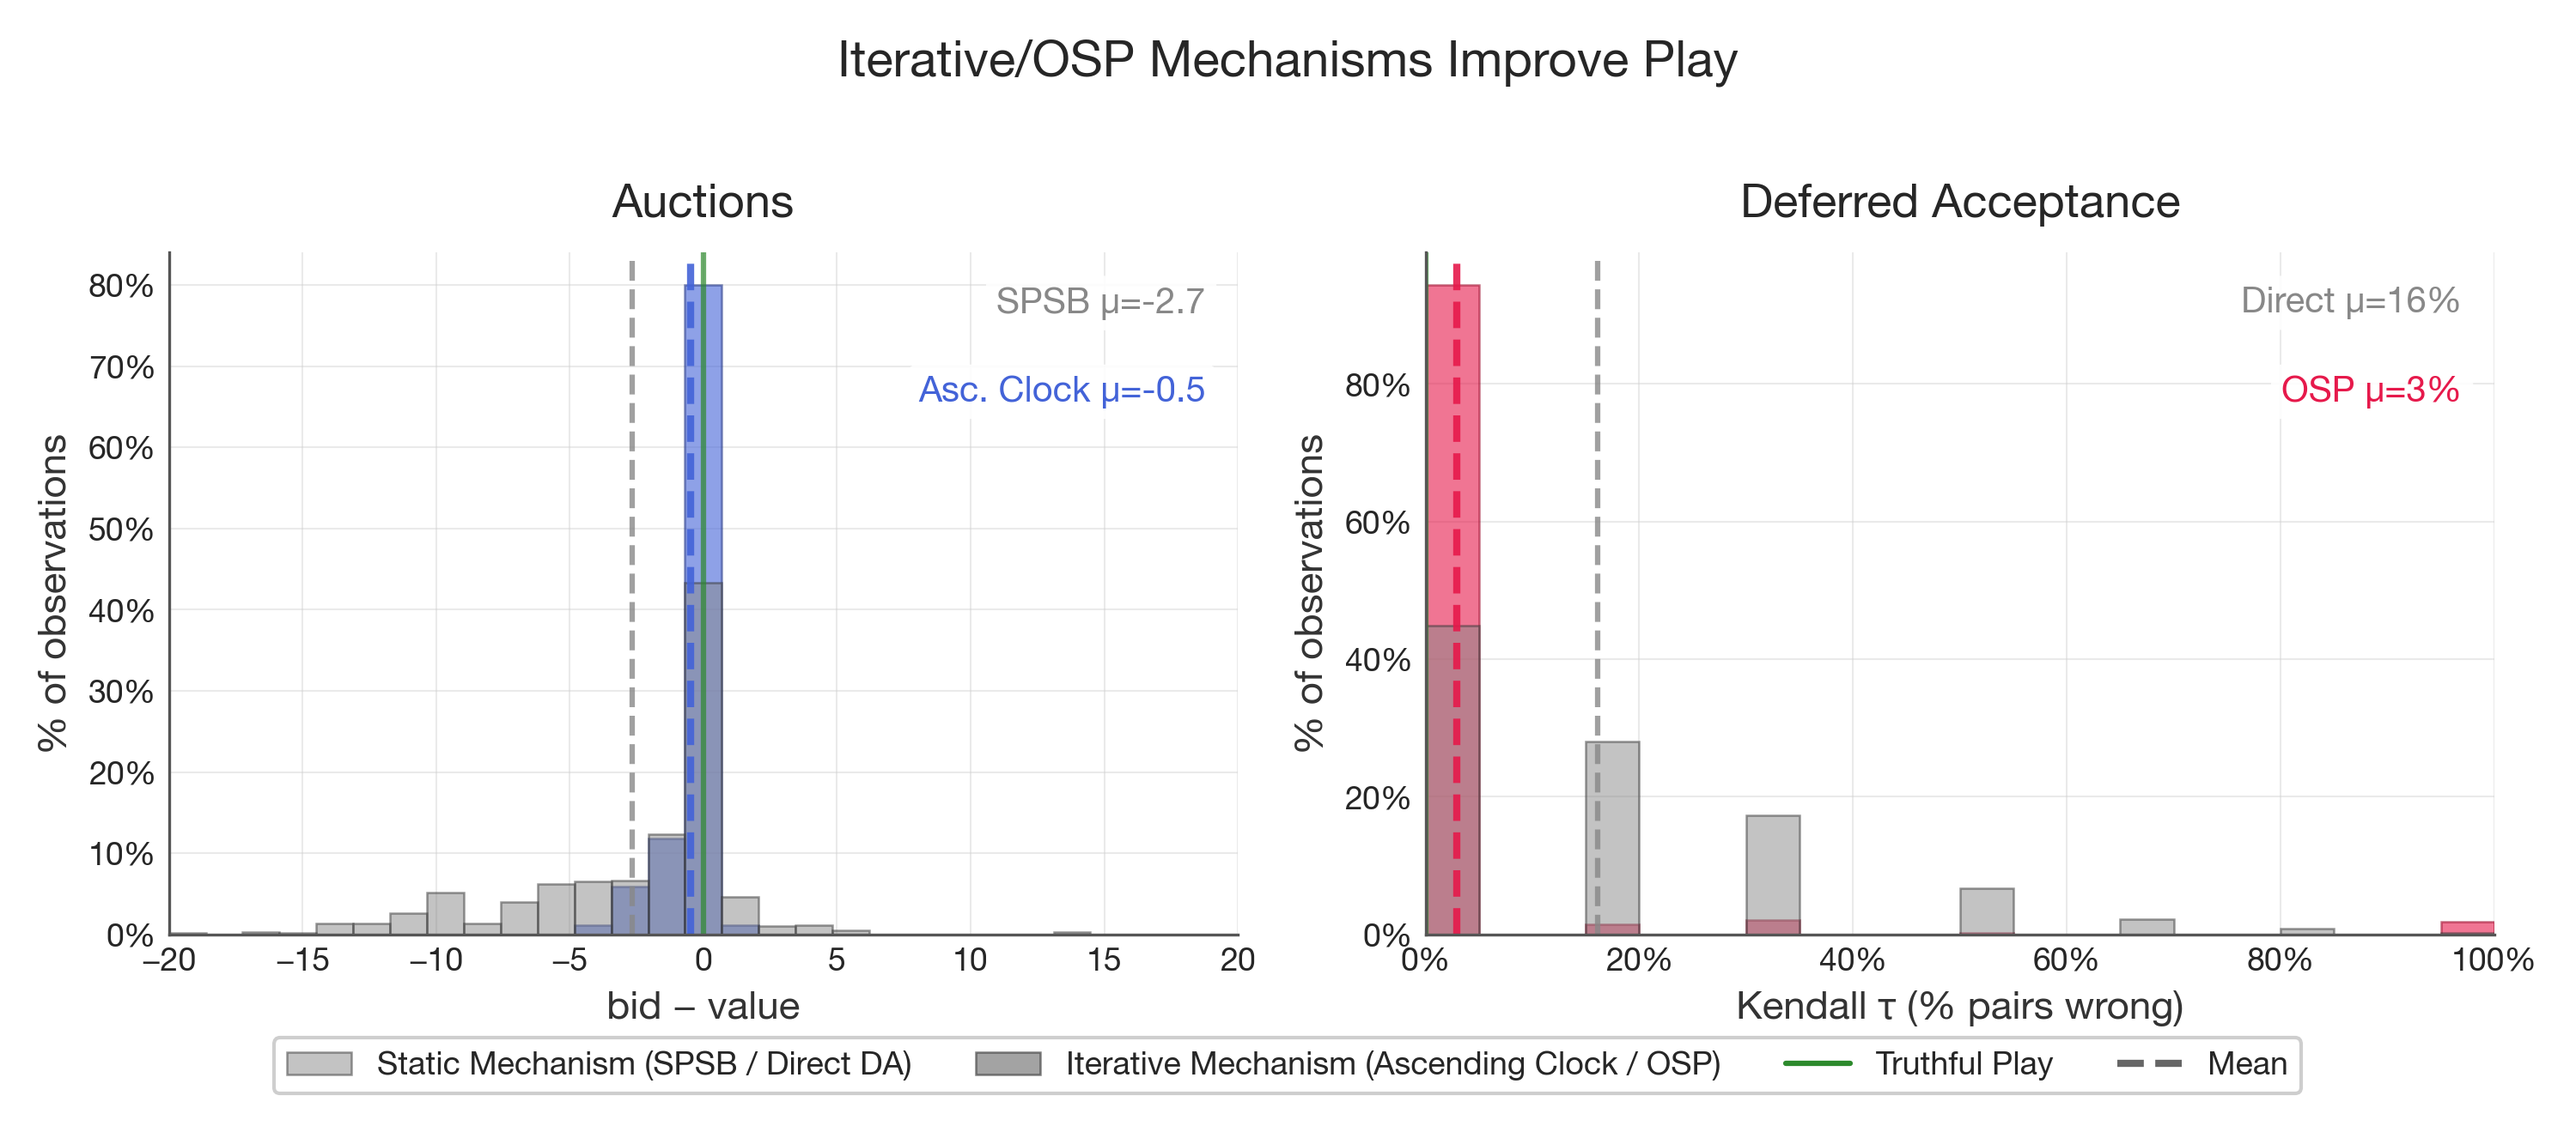
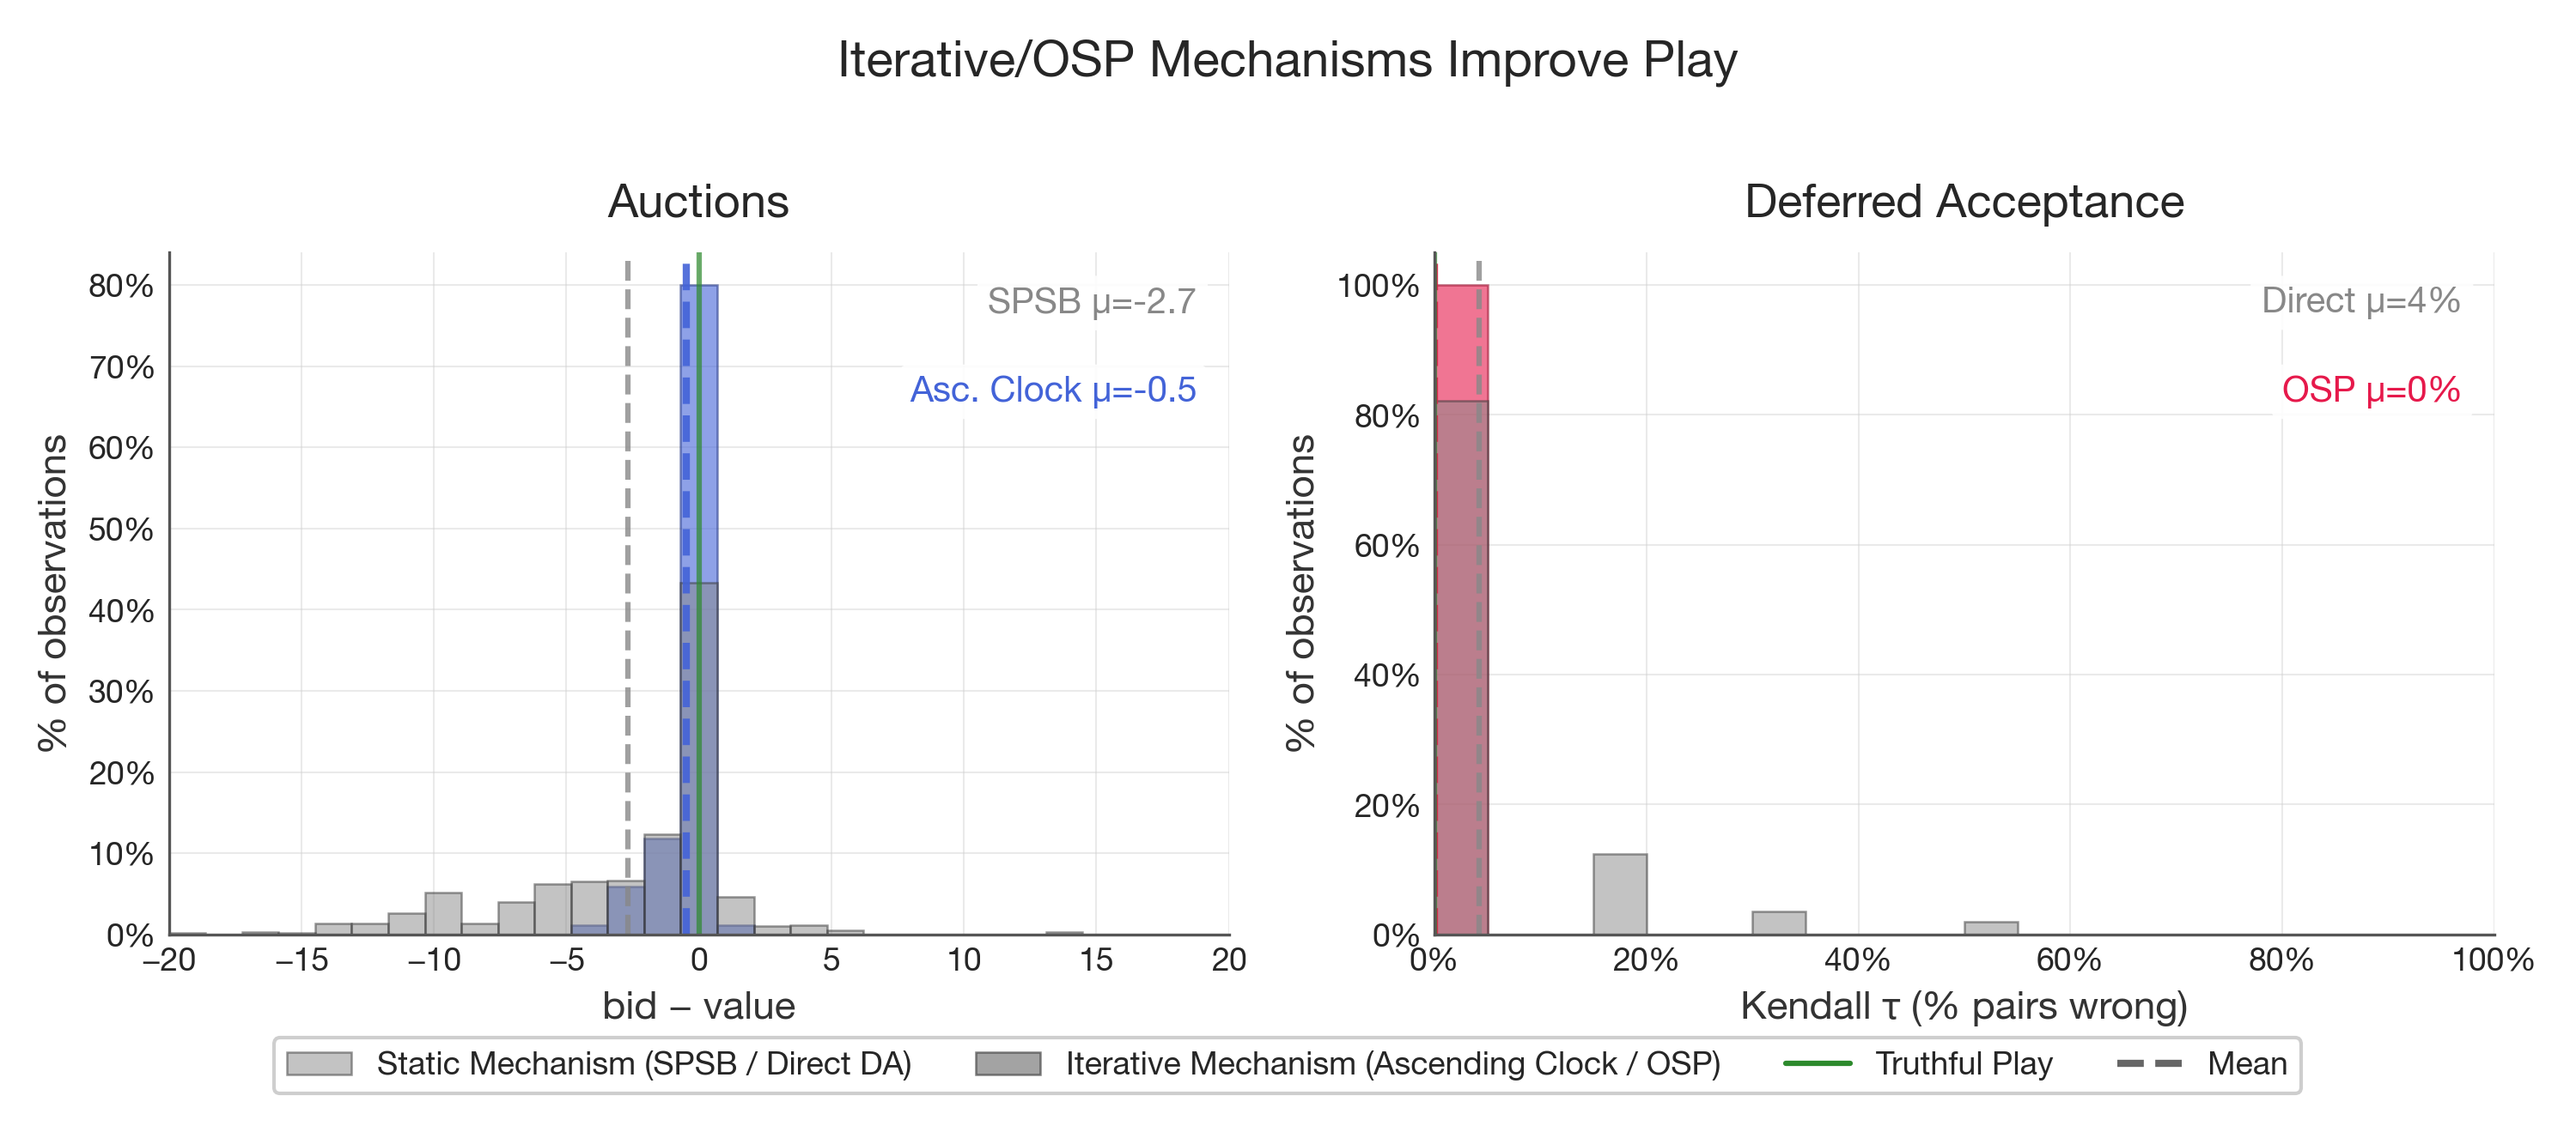
OSP DA fix and rule template

diff --git a/plots/plot_da_interventions.py b/plots/plot_da_interventions.py
@@ -57,23 +57,30 @@ OUTPUT_DIR = Path(__file__).parent / 'da'
 # ============================================================================
 
 MODEL_NAMES = {
+    'claude': 'Claude 3.5 Haiku',
+    'gemini': 'Gemini 2.0 Flash',
     'gpt4o': 'GPT-4o',
-    'gemma': 'Gemma',
+    'gemma': 'Gemma 3 27B',
     'others': 'GPT-4o',  # others folder contains mislabeled GPT-4o data
 }
 
 MODEL_COLORS = {
-    'GPT-4o': '#f58231',      # Orange
-    'Gemma': '#3cb44b',       # Green
+    'Claude 3.5 Haiku': '#4363d8',    # Blue
+    'Gemini 2.0 Flash': '#e6194B',    # Red
+    'GPT-4o': '#f58231',              # Orange
+    'Gemma 3 27B': '#3cb44b',         # Green
 }
 
 # Darker versions for outlines
 MODEL_COLORS_DARK = {
-    'GPT-4o': '#c46820',      # Darker orange
-    'Gemma': '#297a33',       # Darker green
+    'Claude 3.5 Haiku': '#2a3d8a',    # Darker blue
+    'Gemini 2.0 Flash': '#a11232',    # Darker red
+    'GPT-4o': '#c46820',              # Darker orange
+    'Gemma 3 27B': '#297a33',         # Darker green
 }
 
-MODEL_ORDER = ['GPT-4o', 'Gemma']
+# Order by baseline error severity (best to worst)
+MODEL_ORDER = ['Claude 3.5 Haiku', 'Gemini 2.0 Flash', 'GPT-4o', 'Gemma 3 27B']
 
 BASELINE_COLOR = '#888888'  # Gray for direct_baseline
 

diff --git a/plots/plot_osp_comparison.py b/plots/plot_osp_comparison.py
@@ -85,8 +85,10 @@ def load_auction_data():
 # ============================================================================
 
 DA_MODEL_NAMES = {
+    'claude': 'Claude 3.5 Haiku',
+    'gemini': 'Gemini 2.0 Flash',
     'gpt4o': 'GPT-4o',
-    'gemma': 'Gemma',
+    'gemma': 'Gemma 3 27B',
     'others': 'GPT-4o',
 }
 

diff --git a/docs/OSP_DA_FIX.md b/docs/OSP_DA_FIX.md
@@ -1,0 +1,78 @@
+# How to make the DA "OSP" implementation actually OSP
+
+Context: the current `osp` mode in `src/util_da.py` labels the iterative DA interface as "OSP" but the game form is standard DA with simultaneous round-by-round proposals. Agents are asked for their favorite school in the full remaining set (`da_osp_choice.txt`), with no guaranteed fallback. That requires contingent beliefs about other students and fails Li (2017) obviousness and the Ashlagi–Gonczarowski (2018) tree for acyclic priorities. This note spells out what must change in the harness and prompts so the simulation really implements an OSP mechanism.
+
+## Evidence that the current code is not OSP
+- **Parallel queries:** `DA_OSP._run_one_osp_round` queries *all* unmatched students each round and then runs the standard DA step. Each student must forecast whether others will bid for the same school; this is not obviously dominant.
+- **Choice set is not a guaranteed menu:** The prompt (`rule_template/DA/da_osp_choice.txt`) shows the entire remaining set. A student with high value for a school where she has low priority might gamble on it and be rejected later. The worst outcome under the truthful action can be strictly worse than the best outcome under a deviation, so Li's obvious-dominance test fails.
+- **No acyclic-specific tree:** Ashlagi–Gonczarowski show OSP only under acyclic priorities and give a specific decision tree (serial dictatorship if one top-ranked student; otherwise a/b trees when two students are top-ranked). The implementation does not follow that tree and would not be OSP even under acyclic priorities.
+
+## Minimal OSP spec for the acyclic priorities used in this repo
+Assume the fixed Ergin-acyclic priorities already in the code (A/B top; C/D bottom):
+
+- If only one student has top priority at some remaining school, the mechanism collapses to a serial dictatorship: ask that student to pick her favorite remaining school; assign; recurse.
+- If two students (call them a and b) are top-ranked across the remaining schools (the only acyclic case with 4×4), use the Ashlagi–Gonczarowski tree:
+  1) For each school where **a** has priority 1, ask a **yes/no** question: “Do you want to take w now?” If YES → assign w to a, remove w and a, recurse. If NO → w stays available and we continue down the tree.
+  2) If a declined all of her priority‑1 schools, do the symmetric loop for **b** over the schools where b has priority 1.
+  3) If neither loop yields an assignment, ask a for her top remaining school, assign it; then ask b for his top remaining school from what is left; recurse on the remaining students/schools.
+- Every query has a deterministic guarantee that makes truthful play obvious: answering YES yields an immediate match to w; answering NO forfeits w forever but cannot make the student worse off than getting w when w is not her top choice.
+
+## Harness changes (what to code)
+1) **Replace the round-based loop** in `DA_OSP.run` with a recursive `run_osp_tree(state)` that follows the spec above and queries *one student at a time*.
+2) **Maintain explicit menus (“budgets”)** in state: for each query, compute `guaranteed_if_yes` and `guaranteed_if_no` (fallback set) and pass them to the prompt so the worst/best comparisons are transparent (the “obviousness witness” Li uses).
+3) **Use the guaranteed yes/no prompt**, not the full choice list. Point to `rule_template/DA/da_osp_yesno_guaranteed.txt` so each node is a binary decision about a single school with its guarantee.
+4) **Keep DA as the fallback allocator** for students without remaining priority‑1 claims: once the top‑priority students are assigned, run the ordinary DA among the rest (or continue the recursion; both are fine because obviousness has already been resolved for the queried students).
+5) **Truthfulness metric:** Redefine `DA_OSP._compute_osp_truthfulness` to check whether each response matches the obvious action at that node (YES iff the queried school is the student’s top among remaining when asked; NO otherwise) instead of comparing to ex‑post utilities.
+
+## Prompt changes
+Use `rule_template/DA/da_osp_yesno_guaranteed.txt`, which exposes the guarantee and fallback set at each node. Required variables (all currently in the template): `student_id`, `remaining_set`, `candidate`, `fallback_set`, `preference_order`, `pw/px/py/pz`, `global_ranking`. This matches the house style of the other DA templates.
+
+If you hit a serial-dictatorship node (only one student has top priority everywhere), you may ask that student for her top remaining school in one shot; that is OSP. You can reuse the existing `da_osp_choice.txt` or a stripped-down one-line “Choice: <school>” prompt for that single-agent pick. Do **not** use the full-set choice prompt for the general multi-agent case; it breaks obviousness.
+
+## Offer order and multiple-available schools (what happens with many options?)
+- Obviousness requires single-school offers in a fixed, public order derived from priorities, not a free-choice menu. When a student could be admitted to multiple schools, the mechanism still asks about one school at a time, with “take now or give it up forever” guarantees. This is exactly the Ashlagi–Gonczarowski construction.
+- Order to use (acyclic case with 4 students, 4 schools):
+  1) Identify `top_by_school` = argmin-priority for each remaining school.
+  2) Let `top_students` be the unique set of priority‑1 students. Acyclicity ⇒ |top_students| ≤ 2.
+  3) If |top_students| = 1: serial dictatorship for that student (pick top remaining school once).
+  4) If |top_students| = 2 with students a, b: iterate the schools where a has priority 1 in a fixed order (e.g., alphabetical by school label) with the yes/no prompt; if none taken, iterate b’s priority‑1 schools in the same fixed order; if still none taken, ask a for her top remaining school, assign; then ask b for his top remaining school from what is left.
+- The fallback set shown in the prompt is always `remaining_set - {candidate}` at that node. This provides the “obviousness witness”: if `candidate` is truly the student’s favorite among `remaining_set`, YES weakly dominates NO; otherwise NO weakly dominates YES.
+
+## Quick pseudocode sketch
+
+```
+def run_osp_tree(students, schools, priorities):
+    if not students: return matches
+
+    top_by_school = {s: argmin_priority(students, s)}
+    top_students = unique(top_by_school.values())
+
+    if len(top_students) == 1:
+        s_star = top_students[0]
+        w = ask_pick_top(s_star, schools)  # multiple choice OK here
+        assign(s_star, w); recurse(without s_star, schools - {w})
+        return matches
+
+    # len == 2 in the acyclic 4×4 case
+    a, b = top_students
+    for w in schools where top_by_school[w] == a:
+        if ask_yes_no(a, w, fallback=schools - {w}):
+            assign(a, w); return recurse(without a, schools - {w})
+
+    for w in schools where top_by_school[w] == b:
+        if ask_yes_no(b, w, fallback=schools - {w}):
+            assign(b, w); return recurse(without b, schools - {w})
+
+    w_a = ask_pick_top(a, schools)
+    assign(a, w_a)
+    w_b = ask_pick_top(b, schools - {w_a})
+    assign(b, w_b)
+    return recurse(without {a,b}, schools - {w_a, w_b})
+```
+
+This tree mirrors Ashlagi–Gonczarowski’s construction and is OSP for any acyclic priority profile. The harness should log each node with the `fallback_set` used so we can audit obviousness ex post.
+
+## What to tell the coauthor
+- The “OSP” mode currently tested in the figures is not OSP; it is standard DA with a different UI. Any claims about OSP gains are therefore unsupported.
+- Implement the tree above, switch to the guarantee-bearing yes/no prompts, and rerun the OSP experiments. Keep the non-OSP (direct) baseline unchanged for comparison.
+- Document in the draft that OSP holds **only under the fixed acyclic priority profile**; if you randomize priorities, rerun the acyclicity check or fall back to the non-OSP label.
